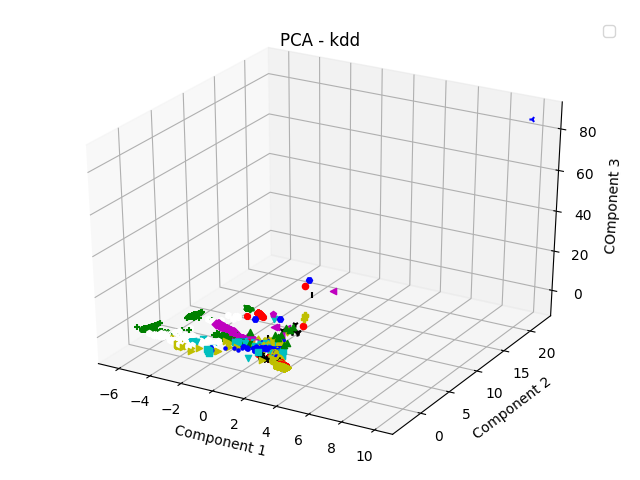
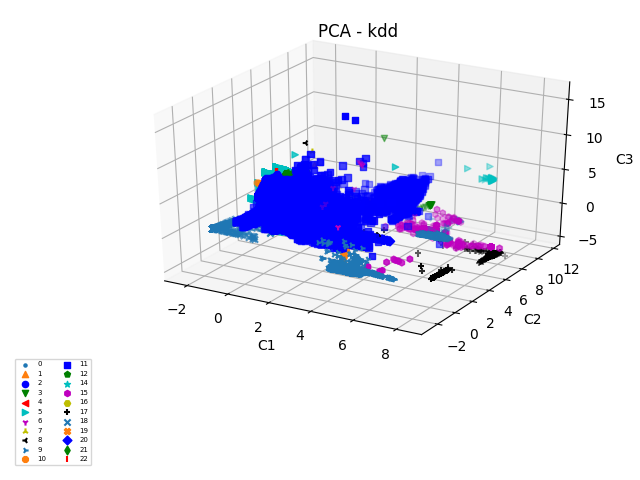
Dimensionality Reduction - PCA - 1D, 2D, 3D scatter plots for 1 through 3 Principal Components

diff --git a/plotting_service.py b/plotting_service.py
@@ -34,13 +34,13 @@ def plot3D_scatter(feature_data, labels, reduction_algo, dataset_name):
         indices_for_this_label = np.where(labels == unique_label)[0]
         records_for_this_label = feature_data[indices_for_this_label, :]
         ax.scatter(records_for_this_label[:, 0], records_for_this_label[:, 1], records_for_this_label[:, 2],
-                   c=colors[unique_label], marker=markers[unique_label], label="Class{0}".format(unique_label))
+                   c=colors[unique_label], marker=markers[unique_label], label="{0}".format(unique_label))
 
-    ax.set_xlabel('Component 1')
-    ax.set_ylabel('Component 2')
-    ax.set_zlabel('Component 3')
+    ax.set_xlabel('C1')
+    ax.set_ylabel('C2')
+    ax.set_zlabel('C3')
     plt.title("{0} - {1}".format(reduction_algo, dataset_name))
-    #plt.legend(loc='best', numpoints=1, ncol=15, fontsize=5, bbox_to_anchor=(0, 0))
+    plt.legend(loc='best', numpoints=1, ncol=2, fontsize=5, bbox_to_anchor=(0, 0))
     plt.show()
 
 def plot2D_scatter(feature_data, labels, reduction_algo, dataset_name):
@@ -53,12 +53,12 @@ def plot2D_scatter(feature_data, labels, reduction_algo, dataset_name):
         this_class_scatter = plt.scatter(feature_data[indices_for_this_label, 0], feature_data[indices_for_this_label, 1],
                     c=colors[unique_label], marker=markers[unique_label])
         scatters_per_class.append(this_class_scatter)
-        classes.append('Class{0}'.format(unique_label))
+        classes.append('{0}'.format(unique_label))
 
     plt.title("{0} - {1}".format(reduction_algo, dataset_name))
-    plt.xlabel("Component 1")
-    plt.ylabel("Component 2")
-    plt.legend(tuple(scatters_per_class), tuple(classes), scatterpoints=1, loc='best', ncol=9, fontsize=5)
+    plt.xlabel("C1")
+    plt.ylabel("C2")
+    plt.legend(tuple(scatters_per_class), tuple(classes), scatterpoints=1, loc='best', ncol=6, fontsize=5)
     plt.show()
 
 def plot1D_scatter(feature_data, labels, reduction_algo, dataset_name):

diff --git a/reduce.py b/reduce.py
@@ -44,9 +44,9 @@ x_train, x_test, y_train, y_test = data_service. \
 
 
 if dataset_name == 'kdd':
-    random_indices = np.random.choice(y_train.shape[0], 10000, replace=False)
-    y_train = y_train[random_indices]
-    x_train = x_train[random_indices, :]
+    # random_indices = np.random.choice(y_train.shape[0], 10000, replace=False)
+    # y_train = y_train[random_indices]
+    # x_train = x_train[random_indices, :]
     if reduce_kdd_to_binary:
         normal_train_indices = np.where(y_train == 9)[0]
         non_normal_train_indices = np.where(y_train != 9)[0]
